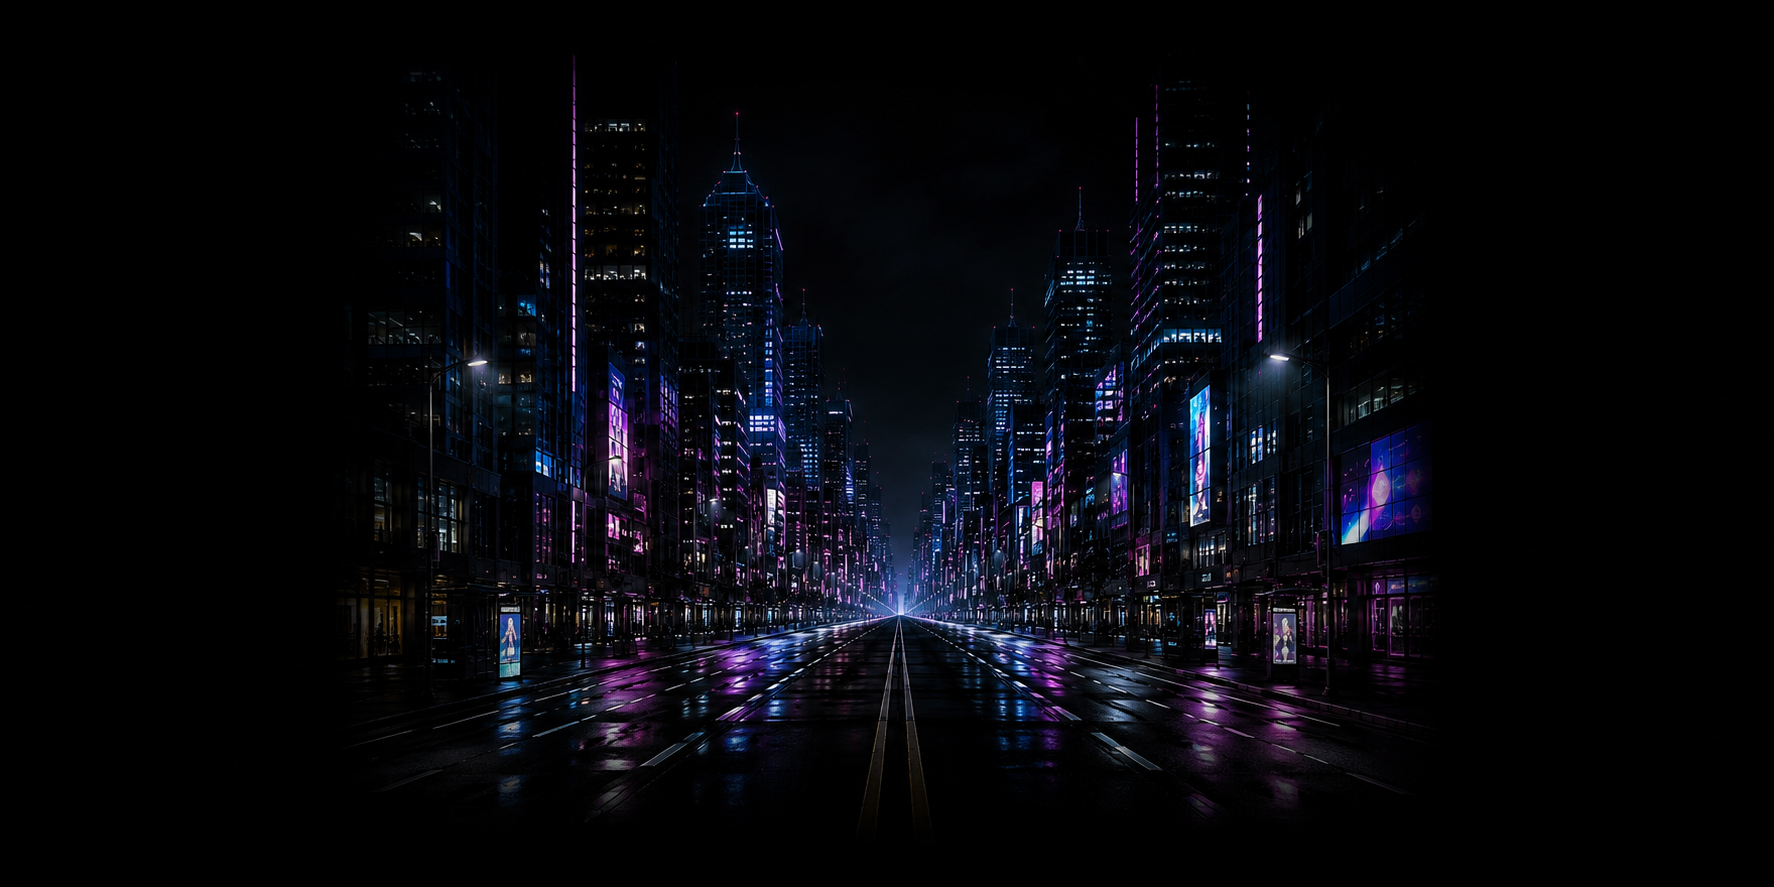
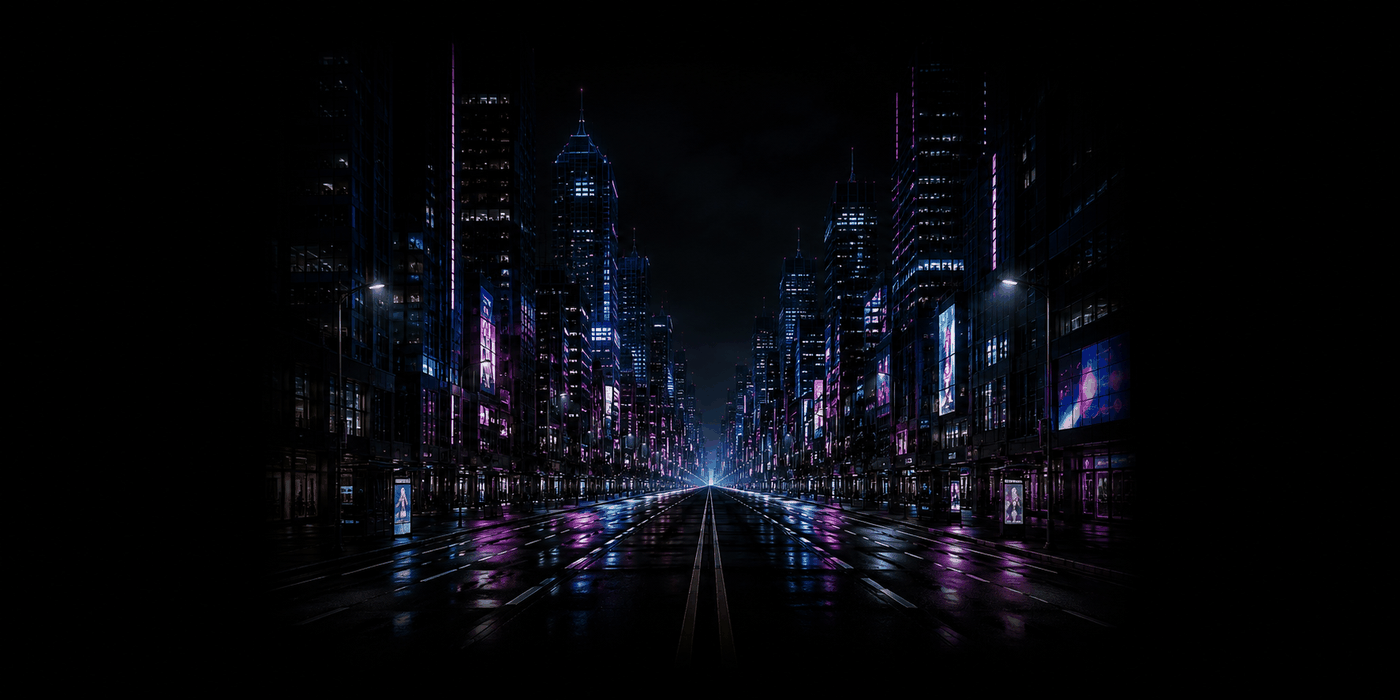
Make Welcome city image larger and optimize city.png.

diff --git a/src/views/Welcome.vue b/src/views/Welcome.vue
@@ -117,9 +117,9 @@ function goToBrands() {
 
 .hero {
   display: grid;
-  grid-template-columns: auto minmax(420px, 1.5fr) minmax(240px, 1fr);
+  grid-template-columns: auto minmax(560px, 2.8fr) minmax(200px, 0.85fr);
   align-items: center;
-  column-gap: 24px;
+  column-gap: 16px;
   row-gap: 32px;
   padding: 64px 0;
 }
@@ -133,7 +133,7 @@ function goToBrands() {
 
 .hero-city {
   width: 100%;
-  max-width: 680px;
+  max-width: 960px;
   height: auto;
   display: block;
 }
